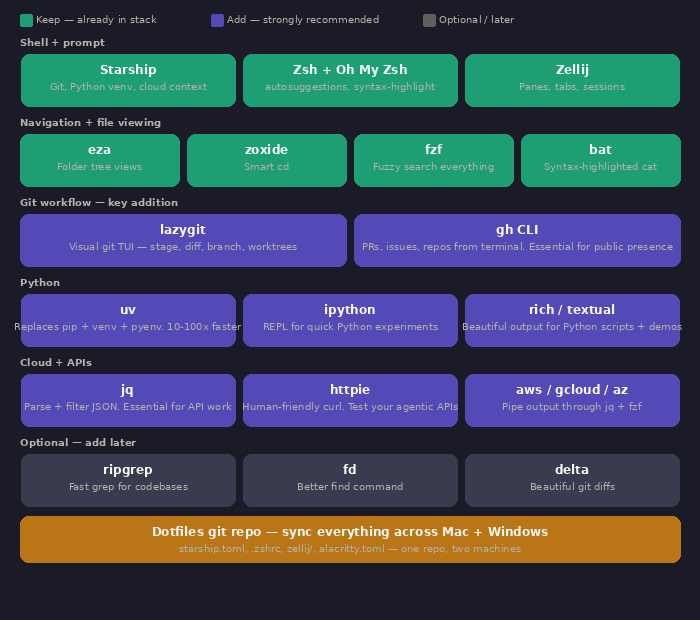
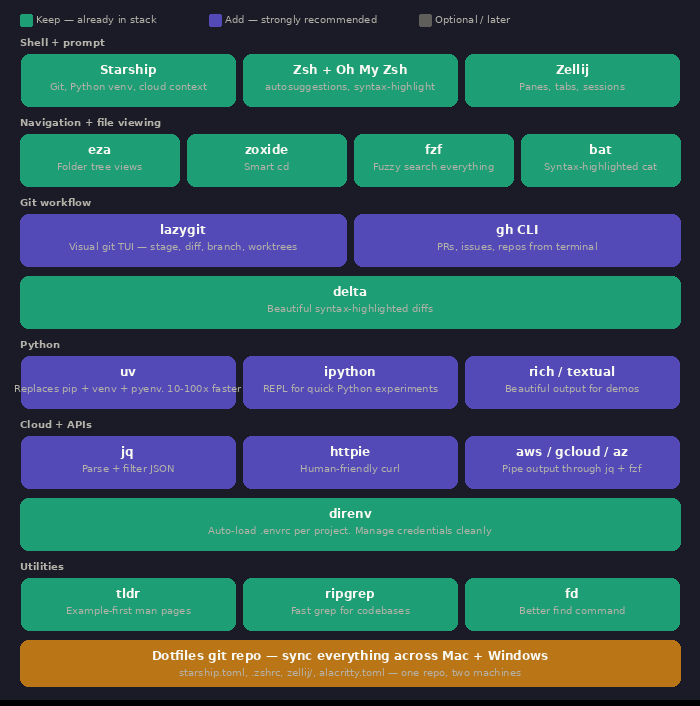
feat: Add `tldr`, `delta`, and `direnv` to dotfiles, updating Brewfile, Zsh configuration, and README documentation with new images.

diff --git a/README.md b/README.md
@@ -388,6 +388,38 @@ http GET api.example.com/data | jq '.results[] | {id, name}'
 http POST api.example.com/items name="test" value:=42
 ```
 
+### tldr
+
+Simplified, example-focused alternative to man pages. When you pick up a new CLI tool, `tldr` shows you the 5 most common use cases immediately.
+
+```bash
+tldr git        # common git commands
+tldr docker     # common docker commands
+tldr fzf        # fzf usage examples
+```
+
+### delta
+
+Makes `git diff` output much more readable — syntax highlighting, line numbers, and side-by-side view. Works automatically inside lazygit too. Set as the default git pager in `.zshrc`.
+
+```bash
+git diff        # now uses delta automatically
+git log -p      # log with delta-highlighted diffs
+```
+
+### direnv
+
+Automatically loads and unloads environment variables when you `cd` into a project folder. Useful for managing different AWS profiles, API keys, or Python versions per project without polluting your global shell.
+
+```bash
+# Create a .envrc in any project folder
+echo 'export AWS_PROFILE=myproject' > .envrc
+direnv allow    # approve it once
+
+# Now AWS_PROFILE is set automatically when you enter the folder
+# and unset when you leave
+```
+
 ---
 
 ## Keeping it current
@@ -504,6 +536,9 @@ Run: `$(brew --prefix)/opt/fzf/install` and follow the prompts to enable shell i
 - [uv docs](https://docs.astral.sh/uv/)
 - [fzf docs](https://github.com/junegunn/fzf)
 - [jq manual](https://jqlang.github.io/jq/manual/)
+- [tldr pages](https://tldr.sh)
+- [delta docs](https://dandavison.github.io/delta/)
+- [direnv docs](https://direnv.net)
 
 ---
 
